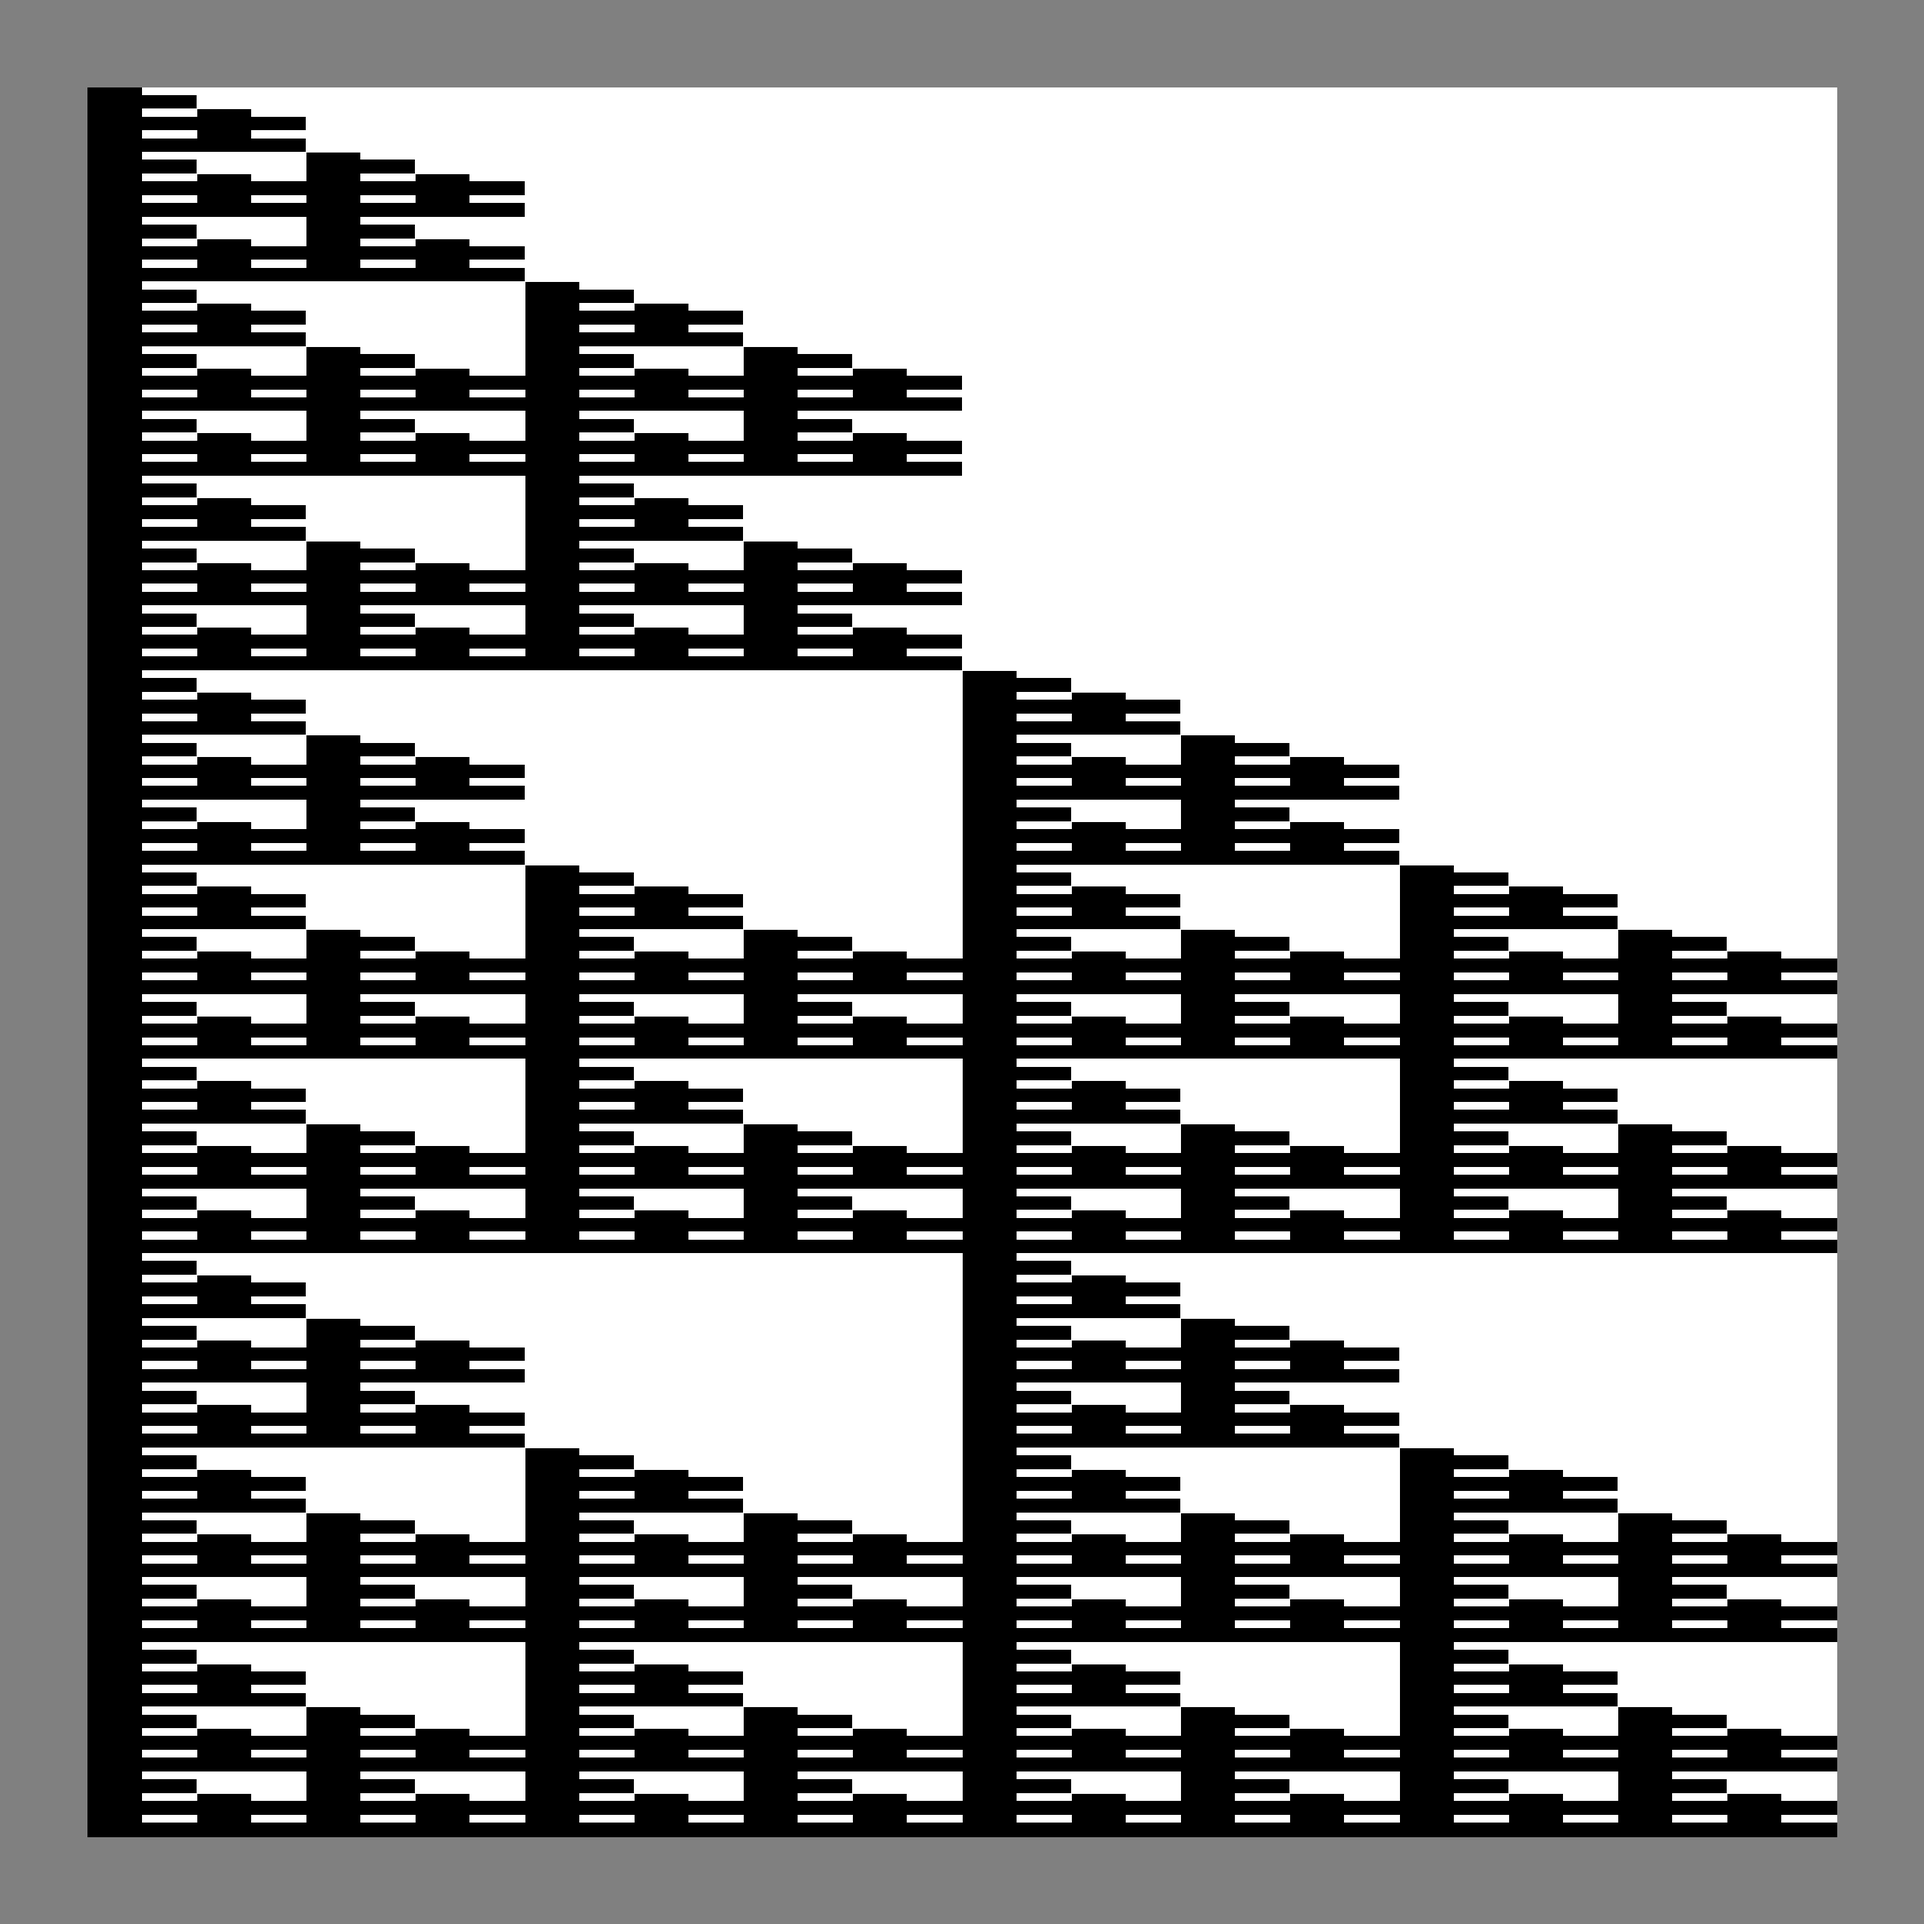
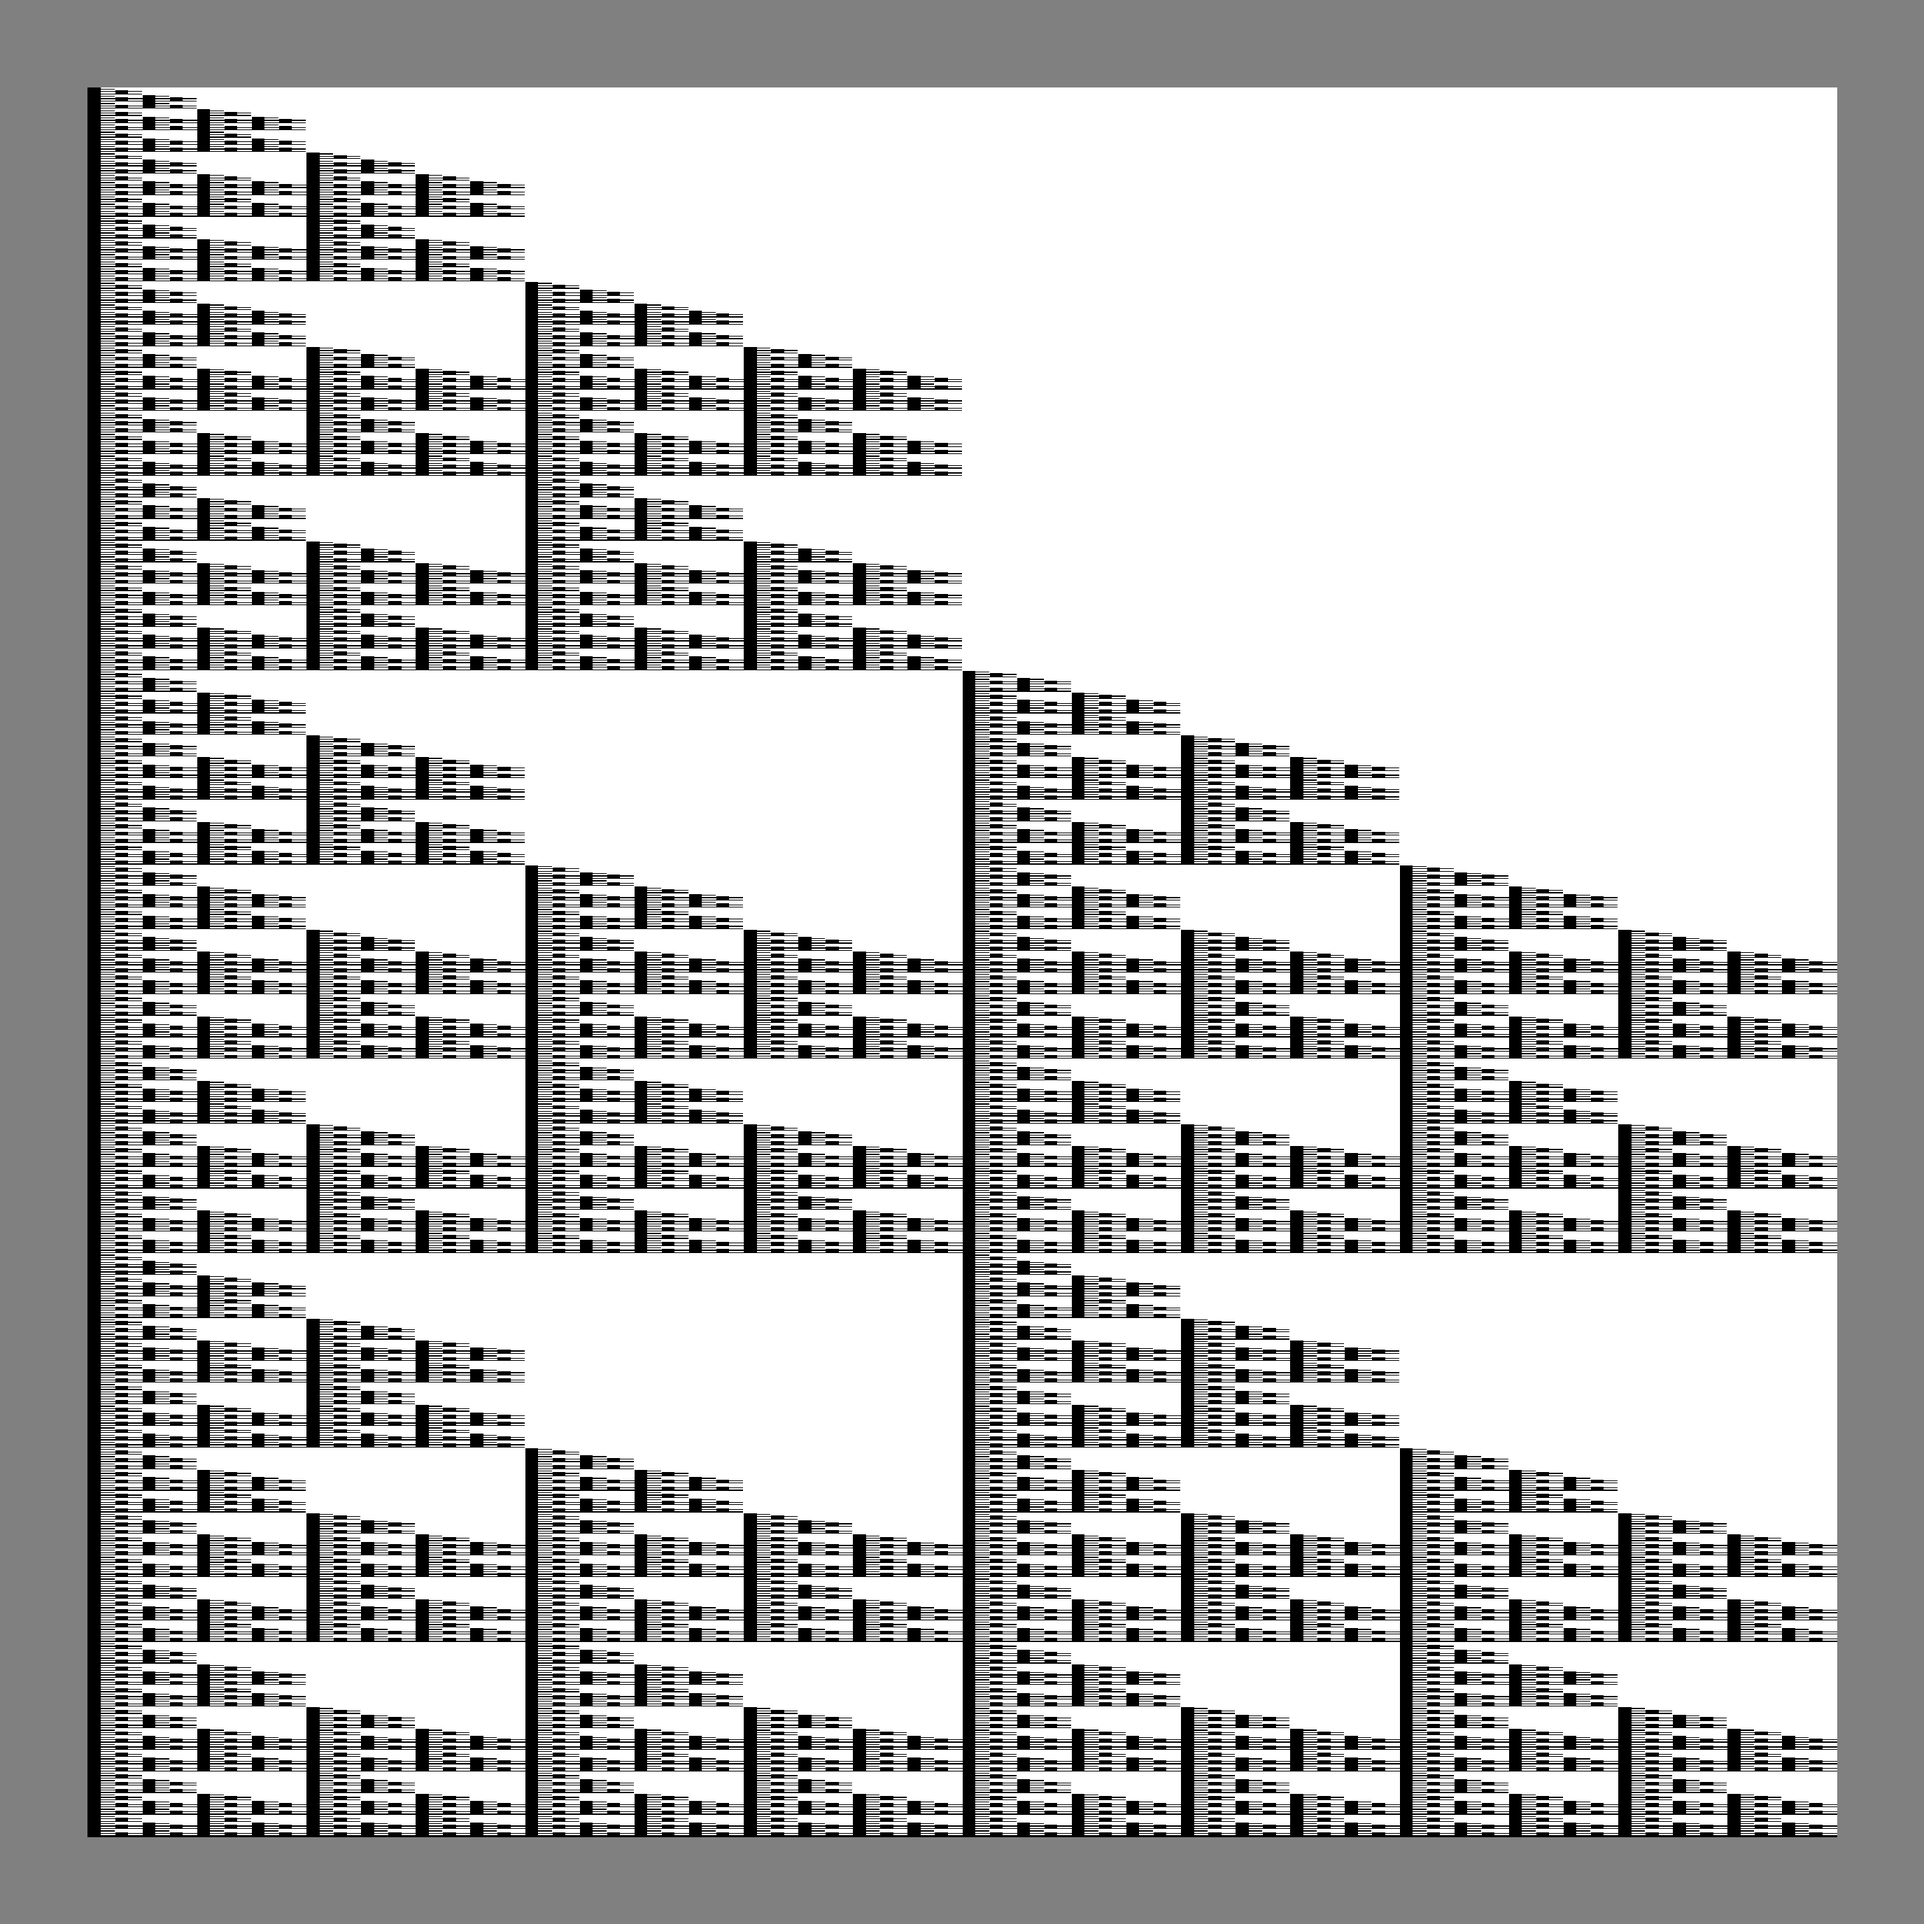
Updated images in README to have more iterations.

Changed region(s): [[0.0309, 0.0309, 0.9582, 0.9582]]

diff --git a/README.md b/README.md
@@ -13,14 +13,14 @@ Generate images of fractals of type:
 
 To generate an array of Sierpiński triangles.
 ```
-python fractals.py --fractal 'triangles' --max_iters '[[0,1],[2,3]]'
+python fractals.py --fractal 'triangles' --max_iters '[[0,1],[2,7]]'
 ```
 
 ![Resulting Sierpiński gasket image.](triangles_display.png "Sierpiński Gasket")
 
 To generate a single Bedford-McMullen carpet and display on screen.
 ```
-python fractals.py --fractal 'carpet' --max_iters '[[5]]' --remove '[3]' -s
+python fractals.py --fractal 'carpet' --max_iters '[[7]]' --remove '[3]' -s
 ```
 
 ![Resulting Bedford-McMullen Carpet image.](carpet_display.png "Bedford-McMullen Carpet")
